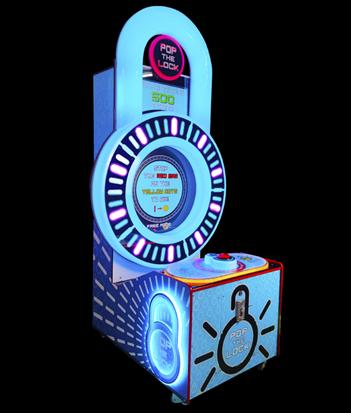
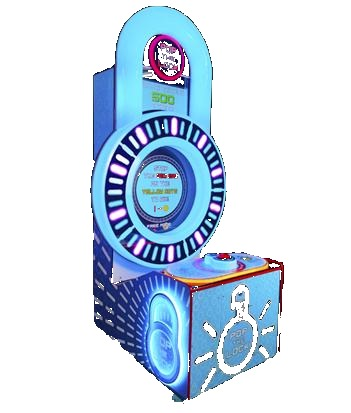
fix: 17 product images (vttr060-076) black background to clean white (rebase onto origin/main)

diff --git a/scripts/fix-dark-bg.py b/scripts/fix-dark-bg.py
@@ -1,0 +1,95 @@
+#!/usr/bin/env python
+# ============================================================
+# 黑底产品图批量修复：把纯黑背景（含抠图残留黑板）替换为**纯白背景**
+#
+# 设计目标（对应公司后续"补真实白底照片"的选型）：
+#   修复后的图与真实白底实拍图风格一致 —— 都是干净纯白底、无渐变过渡，
+#   这样以后逐张替换为真实照片时，卡片视觉不会有"两套底色"的割裂感。
+#
+# 原理：
+#   这批图是"纯黑背景板"上摆拍的抠图，纯黑占比约 70%。
+#   JPEG 在黑边界会产生彩色振铃噪声（红蓝边），因此不能只看亮度低，
+#   必须同时要求接近中性灰，否则边缘彩噪会被一起提亮，出现彩色描边。
+#     暗且近中性灰  → 纯白（#fff）
+#     亮或偏彩色    → 原样保留（产品主体、彩灯、贴纸不受影响）
+#
+# 用法：
+#   python scripts/fix-dark-bg.py --preview   # 生成预览，不动原图
+#   python scripts/fix-dark-bg.py --apply     # 写回原图（会先自动备份到 _backup_images_black/）
+# ============================================================
+import os, sys, shutil
+from PIL import Image
+
+SRC = "public/images/products"
+PREVIEW_DIR = os.path.join(SRC, "_fixed_preview")
+BACKUP_DIR = "_backup_images_black"
+
+# 已知黑底图清单（2026-10-20 扫描得出：vttr060~vttr076 连续一段，边缘暗像素 100%）
+BLACK_LIST = [
+    "vttr060-crack-the-cube.jpeg", "vttr061-minions-wheel.jpeg",
+    "vttr062-minions-carnival-chaos.jpeg", "vttr063-pop-the-lock.jpeg",
+    "vttr064-piano-keys.jpeg", "vttr065-crossy.jpeg",
+    "vttr066-flappy-bird.jpeg", "vttr067-luck-quick-drop.jpeg",
+    "vttr068-lucky-fish-bowl.jpeg", "vttr069-lucky-fish-bowl-1-group.jpeg",
+    "vttr070-sonic-dash.jpeg", "vttr071-stack-ticket.jpeg",
+    "vttr072-subway-surfers.jpeg", "vttr073-rail-rush.jpeg",
+    "vttr074-55-flappy-bird-hd.jpeg", "vttr075-55-stack-ticket-hd.jpeg",
+    "vttr076-55-crossy-hd.jpeg",
+]
+
+# 阈值：低于 LUM_MAX 且通道极差小于 MAX_SAT 视为"暗且中性"→ 置白
+LUM_MAX = 118
+MAX_SAT = 42
+
+
+def convert(im):
+    im = im.convert("RGB")
+    w, h = im.size
+    px = im.load()
+    out = im.copy()
+    opx = out.load()
+
+    for y in range(h):
+        for x in range(w):
+            pr, pg, pb = px[x, y]
+            lum = max(pr, pg, pb)
+            sat = lum - min(pr, pg, pb)
+            if lum < LUM_MAX and sat < MAX_SAT:
+                opx[x, y] = (255, 255, 255)
+    return out
+
+
+def main():
+    apply = "--apply" in sys.argv
+    preview = "--preview" in sys.argv or not apply
+
+    if preview:
+        os.makedirs(PREVIEW_DIR, exist_ok=True)
+
+    if apply:
+        os.makedirs(BACKUP_DIR, exist_ok=True)
+
+    done = 0
+    for fn in BLACK_LIST:
+        p = os.path.join(SRC, fn)
+        if not os.path.exists(p):
+            print(f"  ⚠  跳过（文件不存在）: {fn}")
+            continue
+        res = convert(Image.open(p))
+        if apply:
+            shutil.copy2(p, os.path.join(BACKUP_DIR, fn))   # 先备份再覆盖
+            res.save(p, "JPEG", quality=92, optimize=True)
+            print(f"  ✅ 已修复: {fn}")
+        else:
+            res.save(os.path.join(PREVIEW_DIR, fn), "JPEG", quality=92)
+            print(f"  🔍 预览: {fn}")
+        done += 1
+
+    if apply:
+        print(f"\n共处理 {done} 张，已写回原图。原图备份在：{BACKUP_DIR}/")
+    else:
+        print(f"\n共处理 {done} 张。模式：仅预览（预览目录：{PREVIEW_DIR}）")
+
+
+if __name__ == "__main__":
+    main()

diff --git a/scripts/scan-dark-bg.py b/scripts/scan-dark-bg.py
@@ -1,0 +1,57 @@
+#!/usr/bin/env python
+# 扫描产品图片，检测黑底比例
+# 判据：采样四边边缘像素，若绝大部分为极暗色（各通道 < 60）判定为黑底图
+import os, sys, json
+from PIL import Image
+
+SRC = sys.argv[1] if len(sys.argv) > 1 else "public/images/products"
+THRESH = 60          # 亮度阈值
+EDGE_RATIO = 0.80    # 边缘采样中暗像素占比超过此值 → 判为黑底
+
+rows = []
+for fn in sorted(os.listdir(SRC)):
+    if not fn.lower().endswith((".jpg", ".jpeg", ".png", ".webp")):
+        continue
+    p = os.path.join(SRC, fn)
+    try:
+        im = Image.open(p).convert("RGB")
+    except Exception as e:
+        rows.append((fn, -1, f"读取失败 {e}"))
+        continue
+    w, h = im.size
+    # 采样：上下左右各 12 个边缘点（避开正中间的产品主体）
+    pts = []
+    n = 12
+    for i in range(n):
+        x = int(w * (i + 0.5) / n)
+        pts.append((x, 0))
+        pts.append((x, h - 1))
+    for i in range(n):
+        y = int(h * (i + 0.5) / n)
+        pts.append((0, y))
+        pts.append((w - 1, y))
+    dark = 0
+    tot = len(pts)
+    for (x, y) in pts:
+        r, g, b = im.getpixel((x, y))
+        if r < THRESH and g < THRESH and b < THRESH:
+            dark += 1
+    ratio = dark / tot
+    rows.append((fn, ratio, f"{w}x{h} 边缘暗像素 {dark}/{tot}"))
+
+black = [r for r in rows if isinstance(r[1], float) and r[1] >= EDGE_RATIO]
+near = [r for r in rows if isinstance(r[1], float) and 0.45 <= r[1] < EDGE_RATIO]
+ok = [r for r in rows if isinstance(r[1], float) and r[1] < 0.45]
+
+print(f"总图片: {len(rows)}")
+print(f"明显黑底(边缘暗>=80%): {len(black)}")
+print(f"疑似偏暗(45%-80%): {len(near)}")
+print(f"正常(<45%): {len(ok)}")
+print()
+print("=== 黑底清单 ===")
+for fn, ratio, info in sorted(black, key=lambda x: -x[1]):
+    print(f"{ratio*100:5.1f}%  {fn}  [{info}]")
+print()
+print("=== 疑似偏暗清单 ===")
+for fn, ratio, info in sorted(near, key=lambda x: -x[1]):
+    print(f"{ratio*100:5.1f}%  {fn}  [{info}]")
